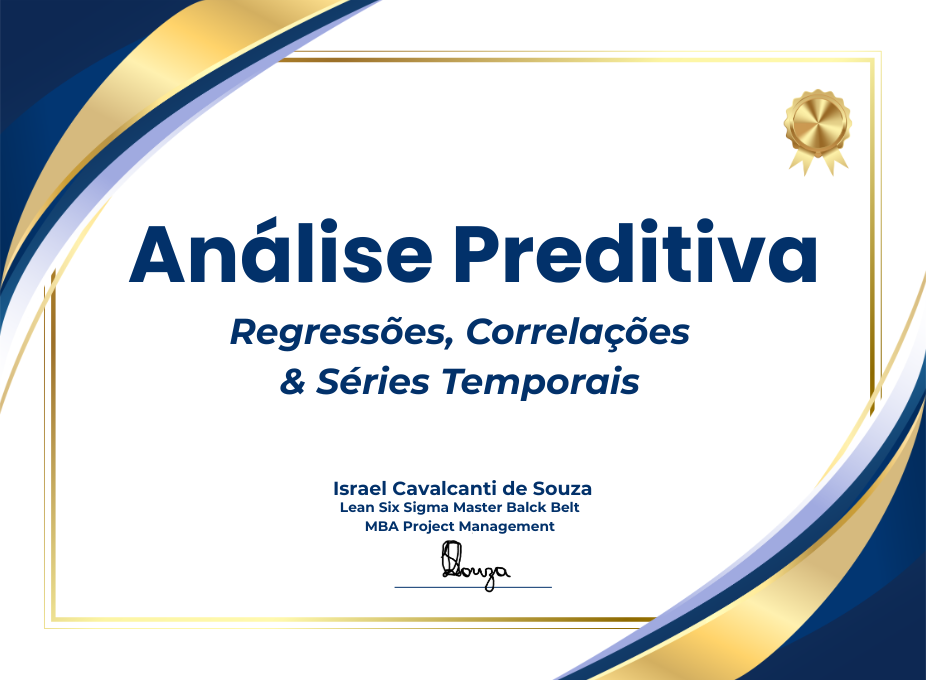
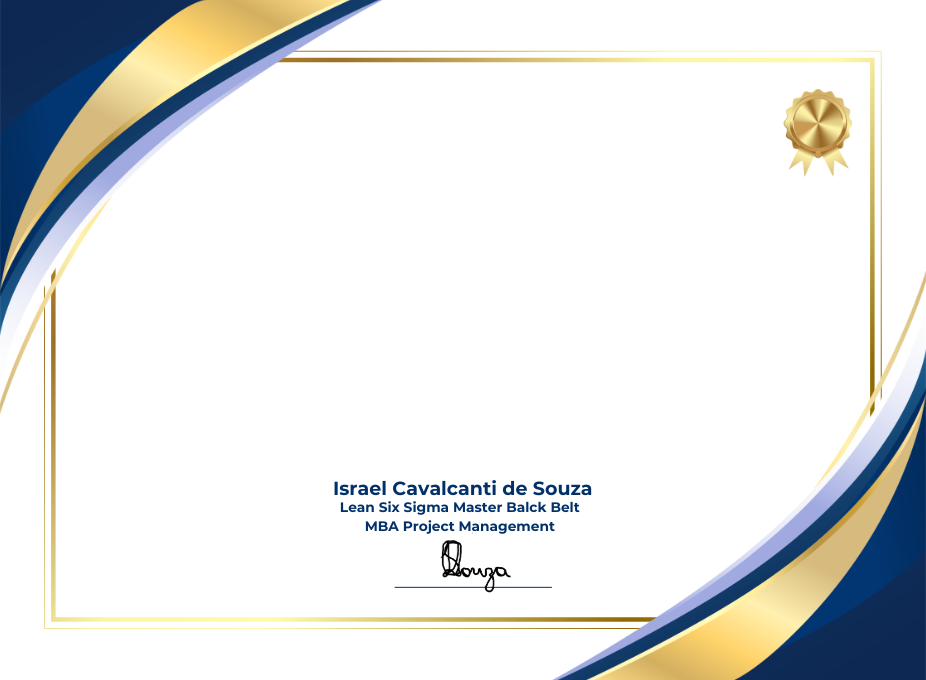
Certificado: base limpa (sem titulo de exemplo) + PDF so o certificado
- modelo-base.png regerado SEM o titulo de exemplo (Analise Preditiva/
  Regressoes...). Agora so moldura, ondas, selo, credenciais e assinatura.
  O titulo de cada trilha + nome do aluno entram limpos no centro.
- Print/PDF: esconde toda a UI do app (body * hidden, so a folha visivel),
  A4 paisagem, pagina unica.

Changed region(s): [[0.121, 0.3088, 0.9071, 0.4324], [0.2419, 0.4632, 0.7559, 0.5868]]

diff --git a/src/components/Certificate.tsx b/src/components/Certificate.tsx
@@ -84,6 +84,10 @@ export default function Certificate({ alunoNome, initiativeName, issuedAt, certI
           @page { size: A4 landscape; margin: 0; }
           html, body { background: white !important; margin: 0 !important; padding: 0 !important; }
           .no-print { display: none !important; }
+          /* Esconde TUDO na página… */
+          body * { visibility: hidden !important; }
+          /* …e mostra apenas a folha do certificado e seu conteúdo. */
+          .cert-paper, .cert-paper * { visibility: visible !important; }
           /* A folha preenche o A4 paisagem inteiro (297×210mm), página única. */
           .cert-paper {
             box-shadow: none !important;
